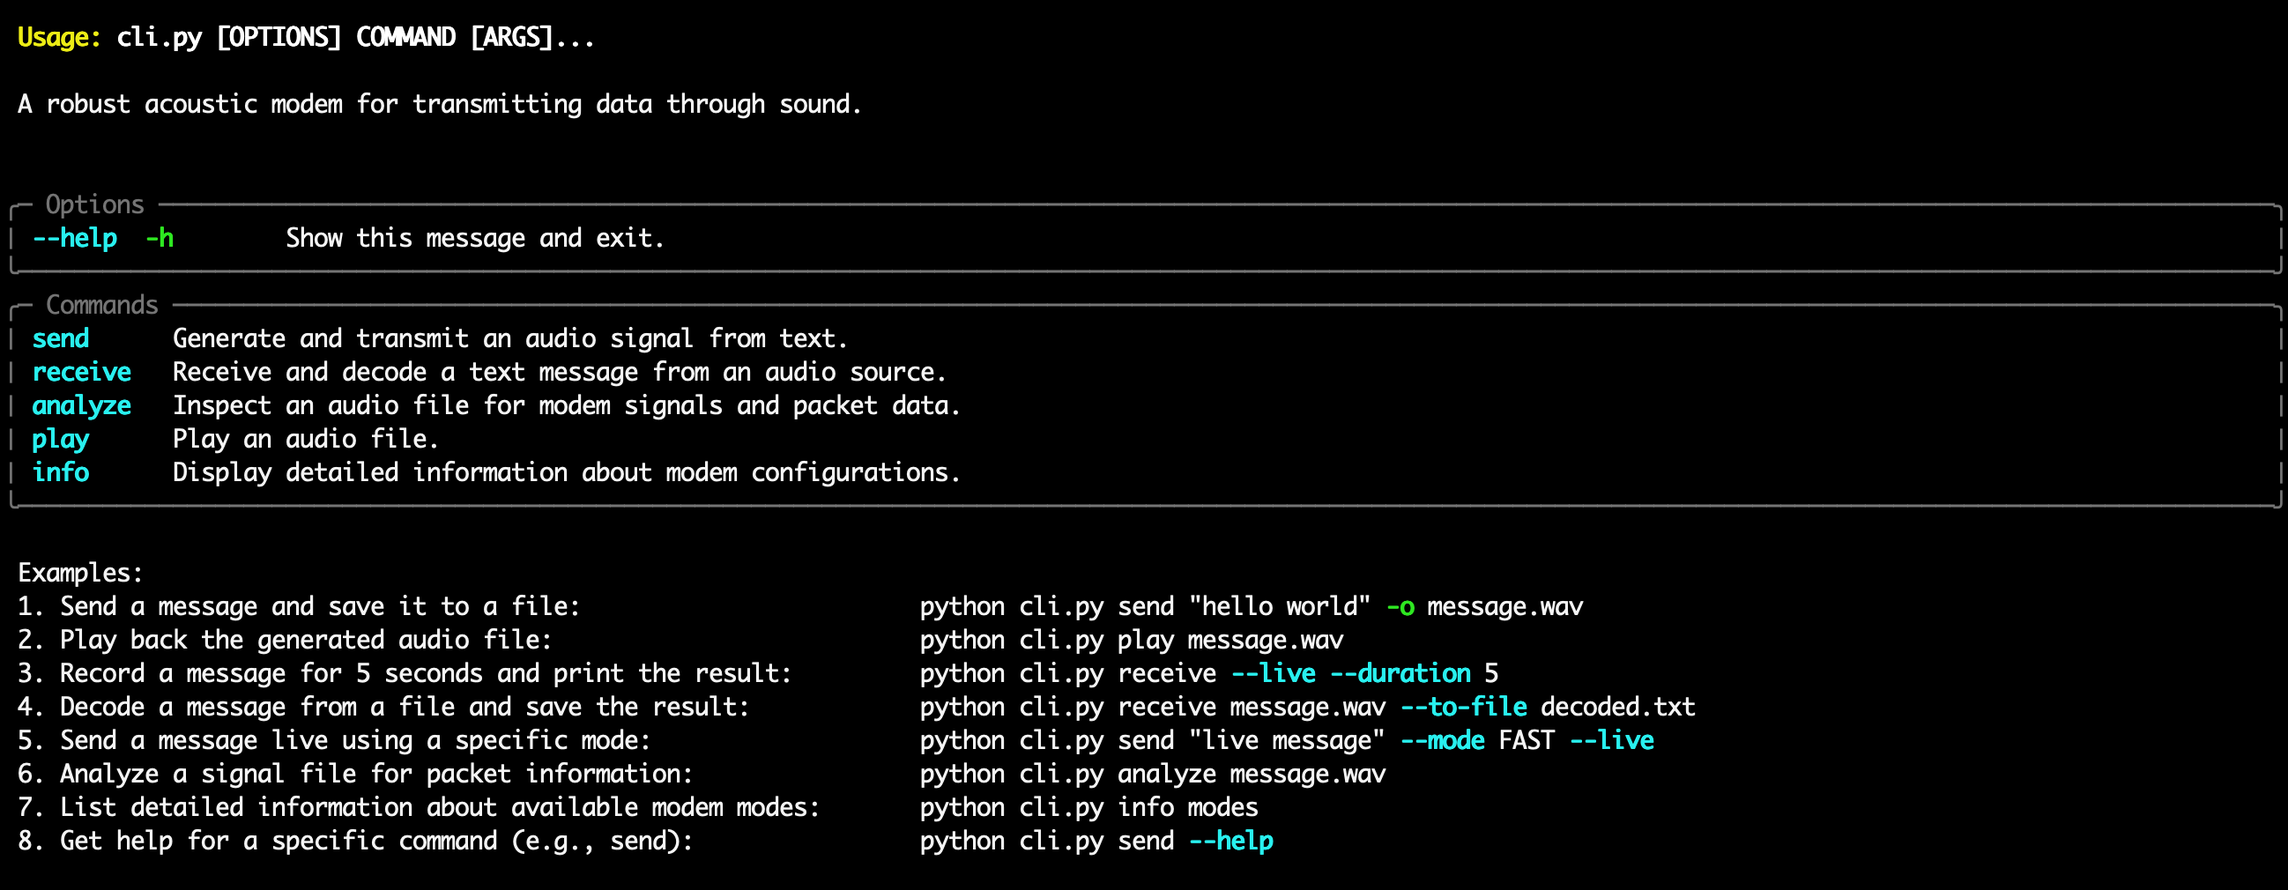
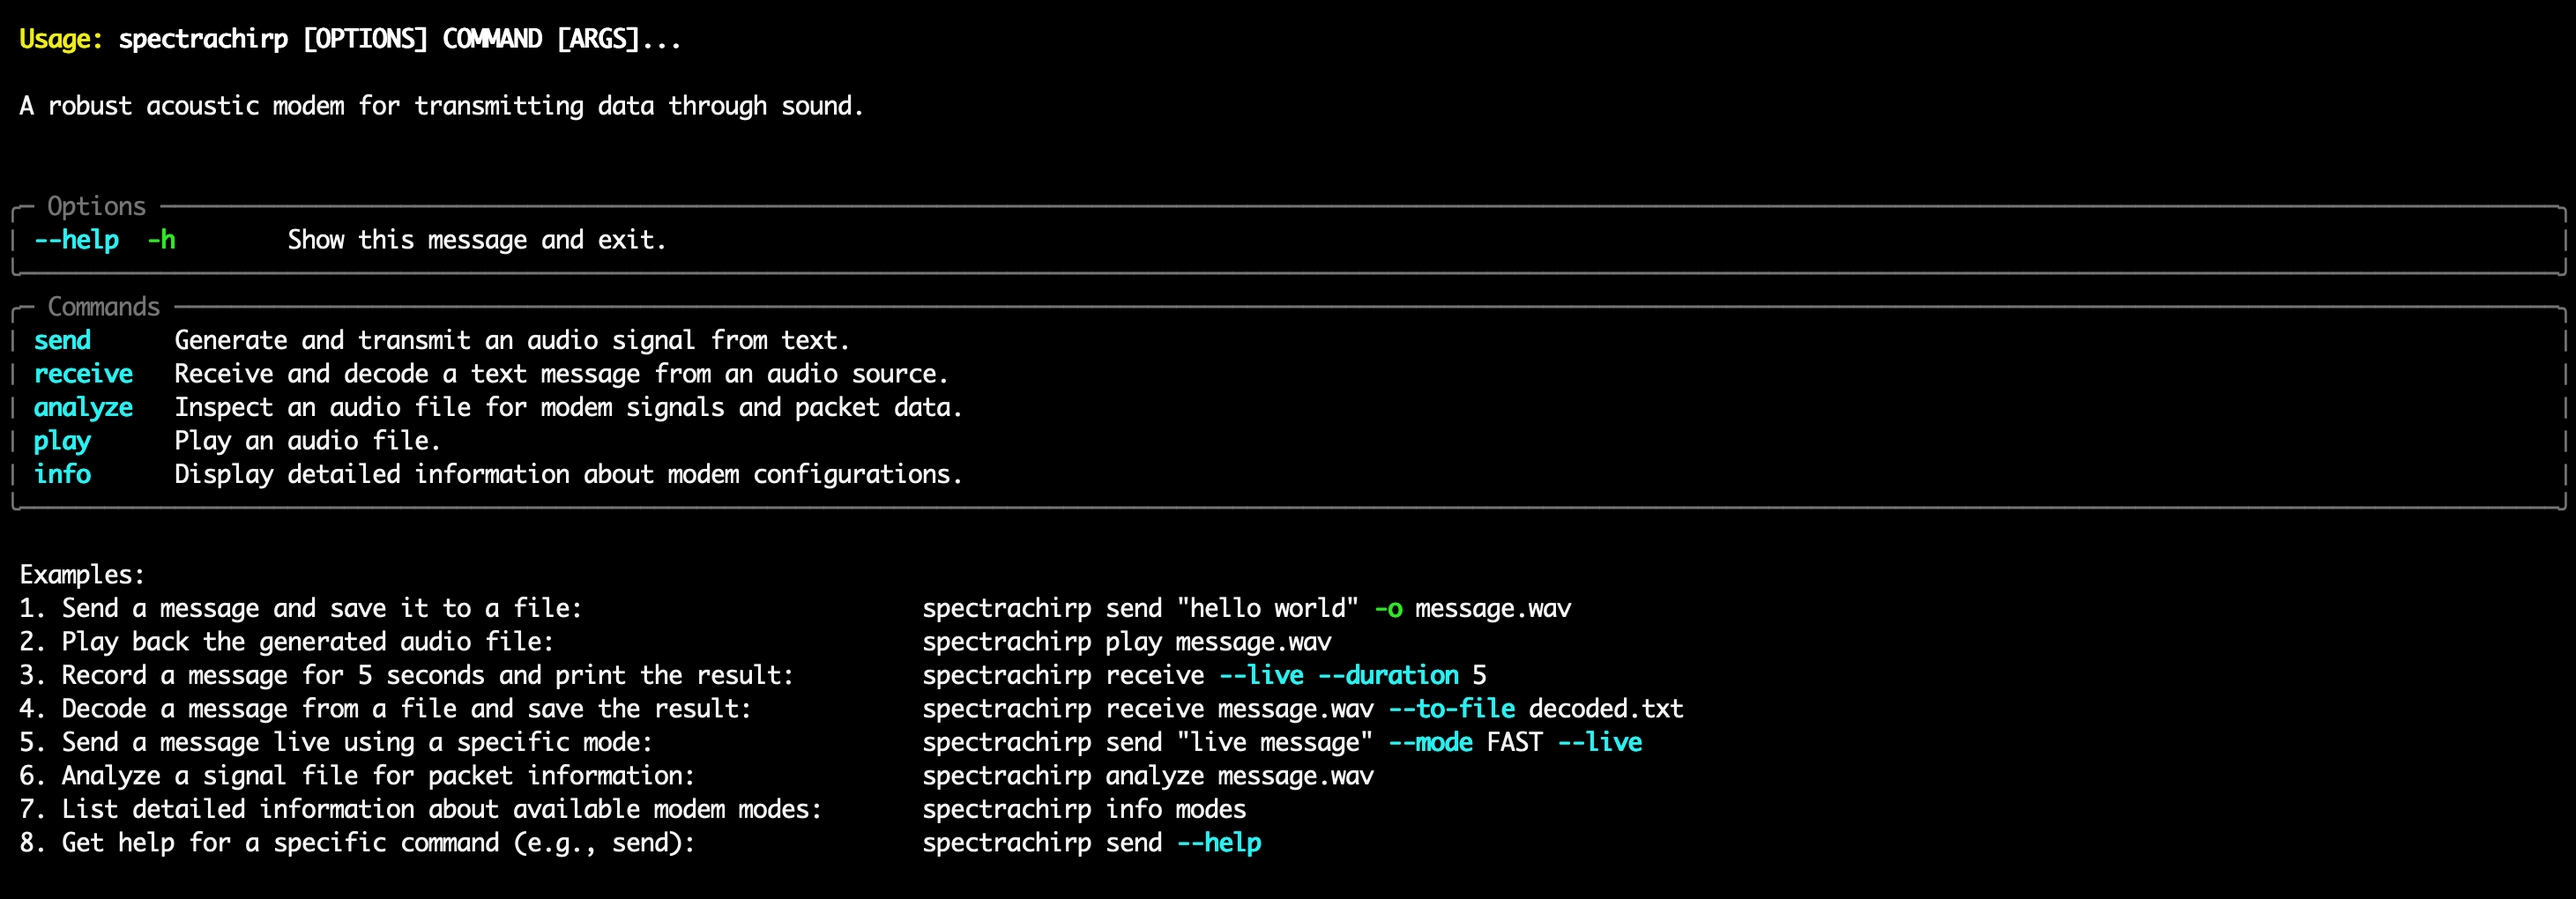
feat(cli): Improve usability and documentation
This commit introduces several improvements to the CLI and its documentation:

- The CLI is now installed as a `spectrachirp` command via `setup.py`, making it directly accessible from the terminal.
- The `send_text_mfsk` function was refactored to return a WAV buffer, and the CLI was updated to handle this, fixing a `ValueError`.
- All examples in the CLI's help text and the `README.md` have been updated to use the new `spectrachirp` command.
- The `README.md` setup instructions have been significantly clarified to ensure a smoother user onboarding process.
- Updated the CLI screenshot to reflect the current state.

diff --git a/cli.py b/cli.py
@@ -31,21 +31,21 @@ mode_help = ("The MFSK modem mode to use. Available: DEFAULT, "
 epilog_text = """
 Examples:
 
-  1. Send a message and save it to a file:			python cli.py send "hello world" -o message.wav
+  1. Send a message and save it to a file:			spectrachirp send "hello world" -o message.wav
 
-  2. Play back the generated audio file:				python cli.py play message.wav
+  2. Play back the generated audio file:				spectrachirp play message.wav
 
-  3. Record a message for 5 seconds and print the result:		python cli.py receive --live --duration 5
+  3. Record a message for 5 seconds and print the result:		spectrachirp receive --live --duration 5
 
-  4. Decode a message from a file and save the result:		python cli.py receive message.wav --to-file decoded.txt
+  4. Decode a message from a file and save the result:		spectrachirp receive message.wav --to-file decoded.txt
 
-  5. Send a message live using a specific mode:			python cli.py send "live message" --mode FAST --live
+  5. Send a message live using a specific mode:			spectrachirp send "live message" --mode FAST --live
 
-  6. Analyze a signal file for packet information:		python cli.py analyze message.wav
+  6. Analyze a signal file for packet information:		spectrachirp analyze message.wav
 
-  7. List detailed information about available modem modes:	python cli.py info modes
+  7. List detailed information about available modem modes:	spectrachirp info modes
 
-  8. Get help for a specific command (e.g., send):		python cli.py send --help
+  8. Get help for a specific command (e.g., send):		spectrachirp send --help
 """
 
 
@@ -80,19 +80,19 @@ def list_modes():
     epilog="""
 Examples:
   Send a simple message and save to 'modem_signal.wav':
-    python cli.py send "hello there"
+    spectrachirp send "hello there"
 
   Send from a file and save to a custom audio file:
-    python cli.py send --from-file message.txt -o custom.wav
+    spectrachirp send --from-file message.txt -o custom.wav
 
   Send a message in ROBUST mode and play it live:
-    python cli.py send "live robust" --mode ROBUST --live
+    spectrachirp send "live robust" --mode ROBUST --live
     
   Send using custom expert parameters:
-    python cli.py send "expert" --num-tones 8 --symbol-duration 120 --tone-spacing 20
+    spectrachirp send "expert" --num-tones 8 --symbol-duration 120 --tone-spacing 20
 
   Get help for the send command:
-    python cli.py send --help
+    spectrachirp send --help
 """
 )
 def send(
@@ -186,10 +186,18 @@ def send(
 
     typer.echo(f"Encoding text: '{text_to_send[:100]}"
                f"{'...' if len(text_to_send) > 100 else ''}'")
-    signal, _ = send_text_mfsk(text_to_send, mode=config_to_use)
+    
+    # The function now returns a BytesIO buffer with the WAV data
+    wav_buffer = send_text_mfsk(text_to_send, mode=config_to_use)
 
     if live:
         try:
+            # Read the data from the buffer for playback
+            wav_buffer.seek(0)
+            signal, samplerate = sf.read(wav_buffer)
+            if samplerate != SAMPLE_RATE:
+                typer.secho(f"Warning: Internal sample rate mismatch. Expected {SAMPLE_RATE}, got {samplerate}", fg=typer.colors.YELLOW)
+
             typer.echo("Playing audio signal...")
             sd.play(signal, SAMPLE_RATE)
             sd.wait()
@@ -199,7 +207,10 @@ def send(
             raise typer.Exit(code=1)
     else:
         try:
-            sf.write(output_file, signal, SAMPLE_RATE)
+            # Write the buffer's content directly to the output file
+            wav_buffer.seek(0)
+            with open(output_file, 'wb') as f:
+                f.write(wav_buffer.read())
             typer.secho(f"Successfully generated signal and saved to "
                         f"'{output_file}'", fg=typer.colors.GREEN)
         except Exception as e:
@@ -212,13 +223,13 @@ def send(
     epilog="""
 Examples:
   Decode from the default 'modem_signal.wav' file:
-    python cli.py receive modem_signal.wav
+    spectrachirp receive modem_signal.wav
 
   Record live for 5 seconds and print the decoded message:
-    python cli.py receive --live --duration 5
+    spectrachirp receive --live --duration 5
 
   Decode from a file and save the output to another file:
-    python cli.py receive input.wav --to-file decoded.txt
+    spectrachirp receive input.wav --to-file decoded.txt
 """
 )
 def receive(
@@ -309,7 +320,7 @@ def receive(
     epilog="""
 Example:
   Analyze a signal and see detailed packet information:
-    python cli.py analyze input_signal.wav
+    spectrachirp analyze input_signal.wav
 """
 )
 def analyze(
@@ -357,7 +368,7 @@ def analyze(
     epilog="""
 Example:
   Play a generated message:
-    python cli.py play message.wav
+    spectrachirp play message.wav
 """
 )
 def play(

diff --git a/setup.py b/setup.py
@@ -13,6 +13,7 @@ setup(
         "Bug Tracker": "https://github.com/saas-erp-hub/SpectraChirp/issues",
     },
     packages=find_packages(),
+    py_modules=["cli"],
     classifiers=[
         "Programming Language :: Python :: 3",
         "License :: OSI Approved :: MIT License",

diff --git a/README.md b/README.md
@@ -49,15 +49,22 @@ SpectraChirp is a Python-based acoustic modem that transmits data through sound 
 
 ---
 
-## Setup and Usage
+## Setup and Installation
 
 ### Prerequisites
 
 - Python 3.8+
 - `uv` (Python package installer). If you don't have it, install it with `pip install uv`.
--   **Audio Hardware**: A working microphone and speakers.
+- **Audio Hardware**: A working microphone and speakers.
+- **System Dependencies**: On some systems (like Linux or macOS with Homebrew), you may need to install the `PortAudio` library, which `sounddevice` depends on.
+    ```bash
+    # On Debian/Ubuntu
+    sudo apt-get install libportaudio2
+    # On macOS with Homebrew
+    brew install portaudio
+    ```
 
-### Installation & Running
+### Installation
 
 1.  **Clone the repository:**
     ```bash
@@ -65,33 +72,46 @@ SpectraChirp is a Python-based acoustic modem that transmits data through sound 
     cd SpectraChirp
     ```
 
-2.  **Install Python dependencies:**
+2.  **Install the project:**
+    Run the following command in the root directory of the project. This command installs all necessary Python packages and makes the `spectrachirp` command available in your terminal.
     ```bash
-    uv pip install -r backend/requirements.txt
+    uv pip install -e .
     ```
 
-3.  **Start the backend server:**
+---
+
+## Usage
+
+You can use SpectraChirp in two ways: through the web interface or the command-line interface.
+
+#### Using the Web Interface
+
+1.  **Start the backend server:**
     ```bash
     sh start_modem.sh
     ```
-    You can check the server logs in `backend_startup.log`.
 
-4.  **Open the Frontend:**
-    Open the `frontend/index.html` file in your web browser or visit the [**Live Demo**](https://spectra-chirp.vercel.app).
+2.  **Open the Frontend:**
+    Open the `frontend/index.html` file in your web browser.
 
-### Web UI Usage
+#### Using the Command-Line Interface (CLI)
 
-![SpectraChirp Web UI](docs/images/web_ui_screenshot.png)
+After the installation, the `spectrachirp` command is ready to use directly in your terminal.
 
-1.  **Sending**: Type your message, click **Generate Signal**, and play the resulting audio.
-2.  **Receiving**: On another computer, record the audio as a `.wav` file. In the UI, click **Choose File**, select your recording, and click **Decode**.
+*Examples:*
+```bash
+# Send a message and save it to a file
+spectrachirp send "hello there" -o modem_signal.wav
+
+# Record a message for 5 seconds and print the result
+spectrachirp receive --live --duration 5
+
+# Get help for a specific command
+spectrachirp send --help
+```
 
 <details open>
-<summary><b>► Click to view Command Line (CLI) Usage</b></summary>
-
-SpectraChirp also provides a command-line interface (`cli.py`) for scripting or advanced usage.
-
-![SpectraChirp CLI](docs/images/cli_screenshot.png)
+<summary><b>► Click to view Full Command Line (CLI) Reference</b></summary>
 
 **Commands:**
 
@@ -103,21 +123,11 @@ SpectraChirp also provides a command-line interface (`cli.py`) for scripting or 
     -   `--num-tones <int>`: Override number of tones (must be a power of 2).
     -   `--symbol-duration <float>`: Override symbol duration in ms.
     -   `--tone-spacing <float>`: Override tone spacing in Hz.
-    *Examples:*
-    ```bash
-    python cli.py send "hello there" -o modem_signal.wav
-    python cli.py send --from-file message.txt -o custom.wav
-    ```
 
 -   **`receive [input_file]`**: Receive and decode a text message from an audio source.
     -   `--to-file, -t <path>`: Path to a text file to save the decoded message to.
     -   `--live, -l`: Record audio directly from the microphone.
     -   `--duration, -d <seconds>`: Recording duration in seconds for live mode (default: 10).
-    *Examples:*
-    ```bash
-    python cli.py receive modem_signal.wav
-    python cli.py receive --live --duration 5
-    ```
 
 -   **`analyze <input_file>`**: Inspect an audio file for modem signals and packet data.
 -   **`play <input_file>`**: Play an audio file.
